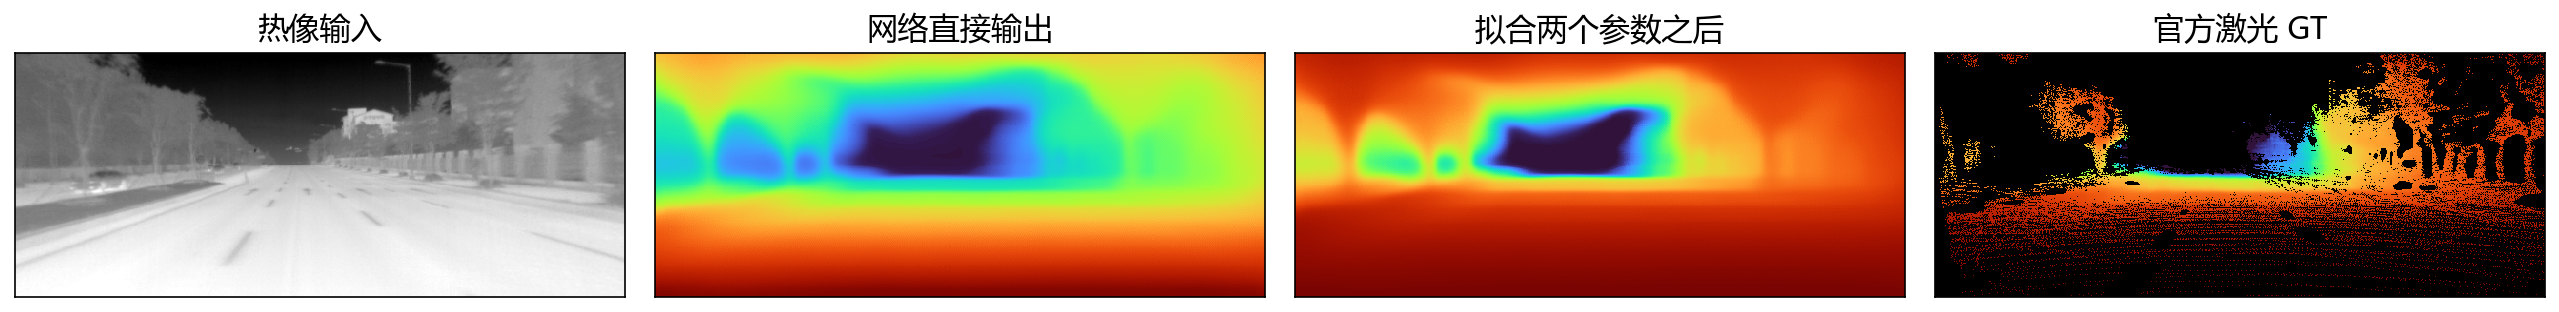
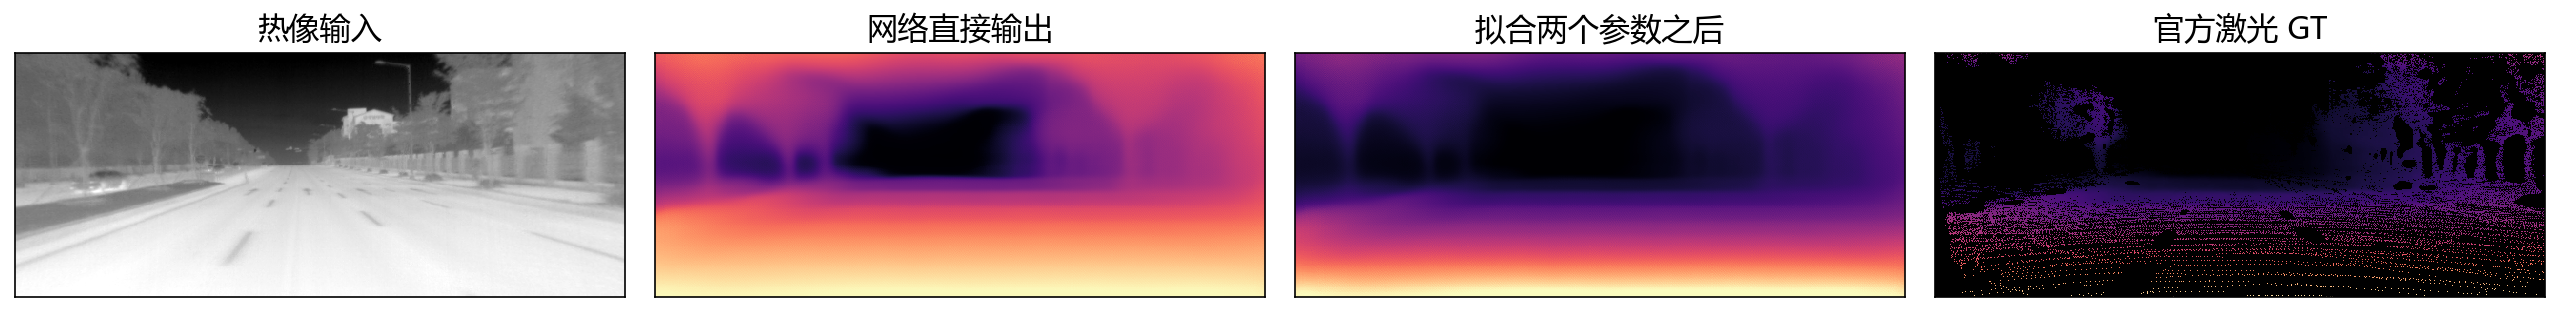
Render depth in the space where the near field has room
The figures were drawn on metric depth clipped to 2/98 percentiles. In a
driving scene that spans 5-80 m the far field takes most of the range, so
cars, railings and tree trunks collapse into one flat block. Rendering the
reciprocal gives the near field most of the range instead, which is why
every depth paper's qualitative figure is inverse-space.

The GT panel was near-black for a second reason: its percentiles were taken
over the whole array, and invalid pixels clip to 0.5 m = disparity 2.0,
which owns the top of the range on its own. The scale now comes from the
dense panel and the sparse one borrows it, so the two are comparable.

turbo_r goes out with it. Lightness has to be monotonic for the eye to read
an ordering off the picture without consulting a key.

metric_chain keeps its colourbar in metres -- that figure's whole claim is
that the fit buys units -- so the norm and the ticks are separated: pixels
sit at -1/D, labels read D, tick spacing is uneven.

diff --git a/docs/figures/build_slide_variants.py b/docs/figures/build_slide_variants.py
@@ -51,8 +51,15 @@ def metric_chain_slide():
     a, b = np.polyfit(y[real].astype(np.float64),
                       np.log(lidar[real].astype(np.float64)), 1)
     metres = np.exp(np.clip(a * y + b, -9.0, 9.0))
-    lo, hi = np.percentile(metres, [2, 98])
-    depth_kw = dict(cmap="turbo_r", vmin=lo, vmax=hi, interpolation="nearest")
+    def disparity_scale(depth):
+        d = 1.0 / np.clip(depth, 0.5, None)
+        return tuple(float(v) for v in np.percentile(d, [1, 99]))
+
+    def as_disparity(depth, lo, hi):
+        d = 1.0 / np.clip(depth, 0.5, None)
+        return np.clip((d - lo) / (hi - lo + 1e-9), 0, 1)
+
+    depth_kw = dict(cmap="magma", vmin=0, vmax=1, interpolation="nearest")
 
     fig = plt.figure(figsize=(17.0, 3.15), dpi=150)
     gs = fig.add_gridspec(1, 4, wspace=0.05, left=0.004, right=0.996,
@@ -63,20 +70,20 @@ def metric_chain_slide():
     ax.set_title("热像输入", fontsize=15, pad=7)
 
     ax2 = fig.add_subplot(gs[0, 1])
-    # Same colour map as the panels either side: near red, far blue. The scale
-    # differs (0 to 1, not metres) and that is what the caption is for; the
-    # direction must not.
-    ax2.imshow(y, cmap="turbo_r", vmin=0, vmax=1, interpolation="nearest")
+    # 与左右两格同向：越亮越近。这一格的量程是网络自己的 0–1 而不是米，
+    # 那是标题在说的事；方向不能跟着变。
+    ax2.imshow(y, cmap="magma_r", vmin=0, vmax=1, interpolation="nearest")
     ax2.set_title("网络直接输出", fontsize=15, pad=7)
 
     ax3 = fig.add_subplot(gs[0, 2])
-    ax3.imshow(metres, **depth_kw)
+    _lo, _hi = disparity_scale(metres)
+    ax3.imshow(as_disparity(metres, _lo, _hi), **depth_kw)
     ax3.set_title("拟合两个参数之后", fontsize=15, pad=7)
 
     ax4 = fig.add_subplot(gs[0, 3])
     ax4.imshow(np.zeros_like(lidar), cmap="gray", vmin=0, vmax=1,
                interpolation="nearest")
-    ax4.imshow(np.where(real, lidar, np.nan), **depth_kw)
+    ax4.imshow(np.where(real, as_disparity(lidar, _lo, _hi), np.nan), **depth_kw)
     ax4.set_title("官方激光 GT", fontsize=15, pad=7)
 
     for ax in (ax, ax2, ax3, ax4):
@@ -95,8 +102,16 @@ def gt_density_slide():
     completed = np.clip(np.where(real, lidar, pseudo), D_MIN, D_MAX)
     coverage = real.mean()
 
-    lo, hi = np.percentile(completed, [2, 98])
-    depth_kw = dict(cmap="turbo_r", vmin=lo, vmax=hi, interpolation="nearest")
+    def disparity_scale(depth):
+        d = 1.0 / np.clip(depth, 0.5, None)
+        return tuple(float(v) for v in np.percentile(d, [1, 99]))
+
+    def as_disparity(depth, lo, hi):
+        d = 1.0 / np.clip(depth, 0.5, None)
+        return np.clip((d - lo) / (hi - lo + 1e-9), 0, 1)
+
+    _lo, _hi = disparity_scale(completed)
+    depth_kw = dict(cmap="magma", vmin=0, vmax=1, interpolation="nearest")
 
     # 两格：官方 GT 与训练目标。像素级放大那一格拿掉了 —— 它证明的「最密的一块
     # 有 77%」这句话，页面正文里已经直接写着了，一格图只是把同一句话再说一遍。
@@ -107,13 +122,13 @@ def gt_density_slide():
     ax = fig.add_subplot(gs[0, 0])
     ax.imshow(np.zeros_like(lidar), cmap="gray", vmin=0, vmax=1,
               interpolation="nearest")
-    ax.imshow(np.where(real, lidar, np.nan), **depth_kw)
+    ax.imshow(np.where(real, as_disparity(lidar, _lo, _hi), np.nan), **depth_kw)
     ax.set_title(f"官方激光 GT　覆盖 {coverage:.1%}", fontsize=15, pad=7)
     ax.set_xlabel("黑色 = 没有测量值，未做膨胀或插值", fontsize=12,
                   color="#C00000", labelpad=4)
 
     ax2 = fig.add_subplot(gs[0, 1])
-    ax2.imshow(completed, **depth_kw)
+    ax2.imshow(as_disparity(completed, _lo, _hi), **depth_kw)
     ax2.set_title("训练用的目标", fontsize=15, pad=7)
     ax2.set_xlabel("伪深度铺满 + 真实激光盖上去", fontsize=12,
                    color="#C00000", labelpad=4)

diff --git a/docs/figures/build_metric_chain.py b/docs/figures/build_metric_chain.py
@@ -24,6 +24,7 @@ from PIL import Image
 import matplotlib
 matplotlib.use("Agg")
 import matplotlib.pyplot as plt
+from matplotlib import colors
 from matplotlib import font_manager
 
 for name in ("Microsoft YaHei", "SimHei", "DengXian"):
@@ -61,8 +62,18 @@ for row, d in enumerate(dirs):
     metres = np.exp(np.clip(a * y + b, -9.0, 9.0))
     aligned_error = float(np.mean(np.abs(metres[real] - lidar[real]) / lidar[real]))
 
-    lo, hi = np.percentile(metres, [2, 98])
-    depth_kw = dict(cmap="turbo_r", vmin=lo, vmax=hi, interpolation="nearest")
+    lo, hi = (float(v) for v in np.percentile(metres, [2, 98]))
+    depth_norm = colors.FuncNorm(
+        (lambda d: -1.0 / np.clip(d, 0.5, None),
+         lambda v: -1.0 / np.clip(v, None, -1e-6)),
+        vmin=lo, vmax=hi)
+    depth_kw = dict(cmap="magma_r", norm=depth_norm, interpolation="nearest")
+
+    def metre_ticks(bar):
+        """刻度选在米制的整数上，位置由 norm 决定，所以间距会不均匀。"""
+        nice = [3, 5, 8, 12, 20, 30, 50, 80]
+        bar.set_ticks([t for t in nice if lo <= t <= hi])
+        bar.ax.tick_params(labelsize=8)
 
     def cell(column, image, title, **show):
         ax = fig.add_subplot(gs[row, column])
@@ -77,17 +88,17 @@ for row, d in enumerate(dirs):
     ax.set_ylabel(meta["id"] + "\n" + f"覆盖 {meta['coverage']:.1%}",
                   fontsize=9.5, labelpad=8, linespacing=1.6)
 
-    # Its own scale, 0 to 1, because this is not depth.
+    # 量程是它自己的 0–1，因为这不是深度 —— 但方向必须和左右两格一致：越亮越近。
+    # 曾经这一格用 viridis、邻格用别的，同一个量在相邻两张图里跑反了方向。
     ax, handle = cell(1, y, "网络直接输出　$y$",
-                      cmap="viridis", vmin=0, vmax=1, interpolation="nearest")
+                      cmap="magma_r", vmin=0, vmax=1, interpolation="nearest")
     bar = fig.colorbar(handle, ax=ax, fraction=0.030, pad=0.010)
     bar.ax.tick_params(labelsize=8)
     if row == len(dirs) - 1:
         ax.set_xlabel("稠密，但没有单位", fontsize=10, color="#555", labelpad=4)
 
     ax, handle = cell(2, metres, "拟合两个参数之后（米）")
-    bar = fig.colorbar(handle, ax=ax, fraction=0.030, pad=0.010)
-    bar.ax.tick_params(labelsize=8)
+    metre_ticks(fig.colorbar(handle, ax=ax, fraction=0.030, pad=0.010))
     ax.set_xlabel(f"$\\log D = {a:.3f}\\,y {b:+.3f}$", fontsize=10,
                   color="#C00000", labelpad=4)
 
